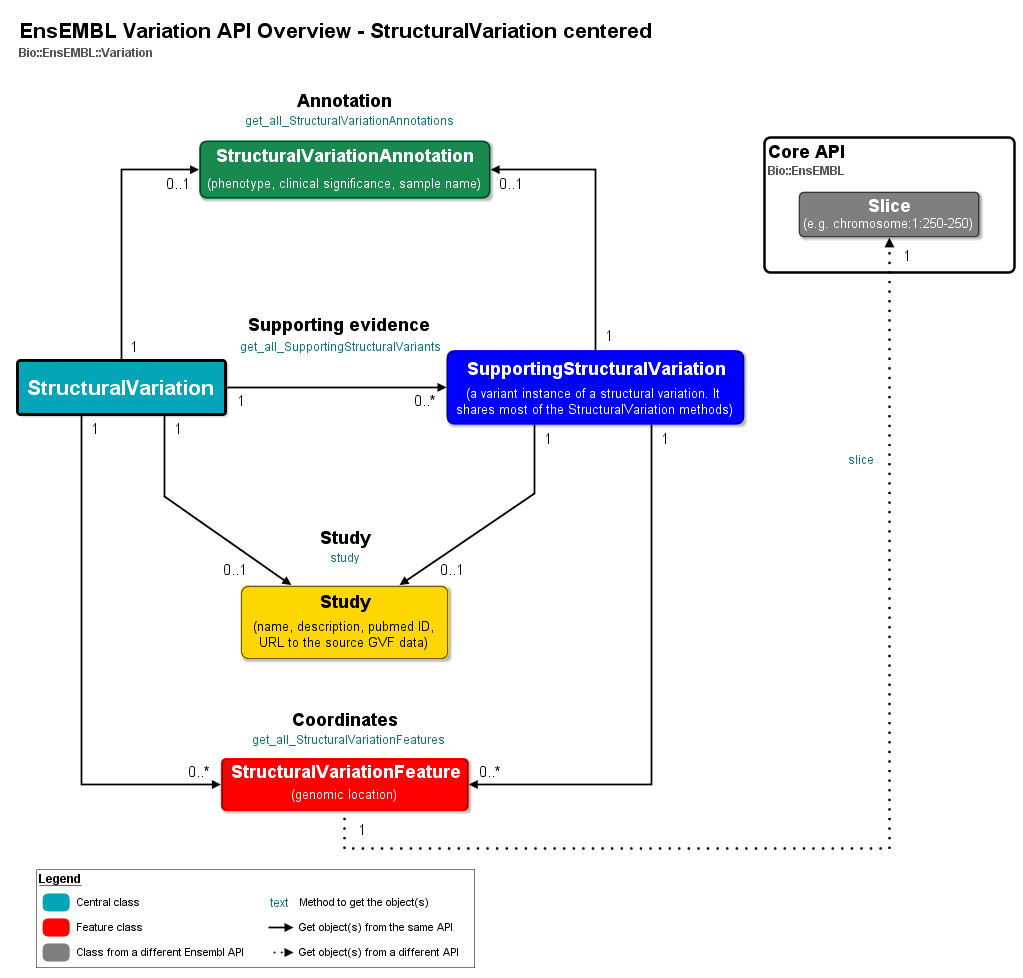
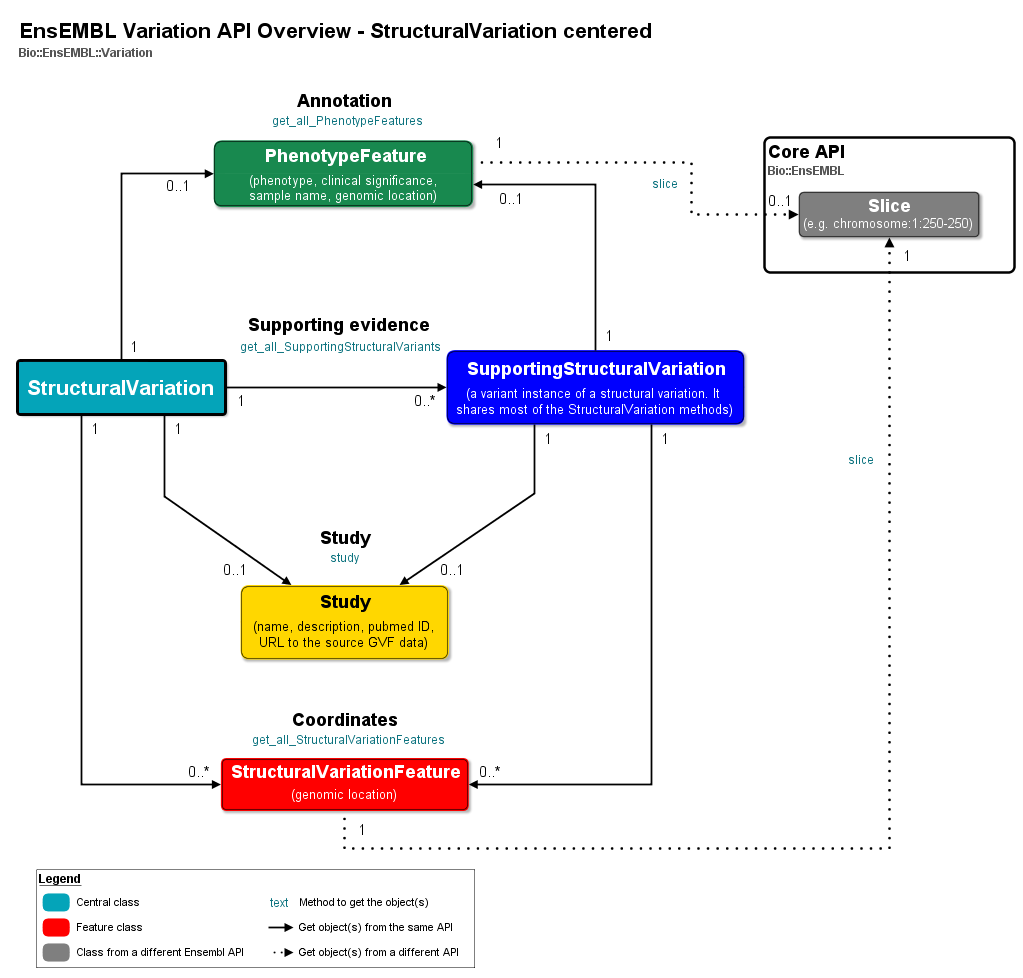
Update the Structural Variation API diagram for e!71

Changed region(s): [[0.1212, 0.1227, 0.5758, 0.2147]]

diff --git a/htdocs/info/docs/api/variation/structuralvariation_API_diagram.html b/htdocs/info/docs/api/variation/structuralvariation_API_diagram.html
@@ -10,7 +10,7 @@
   document.onmousemove = updateTooltip;
 </script>
 
-<div class="tooltip" id="n20">Click to view the StructuralVariationAnnotation class documentation</div>
+<div class="tooltip" id="n20">Click to view the PhenotypeFeature class documentation</div>
 <div class="tooltip" id="n21">Click to view the SupportingStructuralVariation class documentation</div>
 <div class="tooltip" id="n22">Click to view the StructuralVariation class documentation</div>
 <div class="tooltip" id="n23">Click to view the Doxygen documentation for the Variation API</div>
@@ -27,8 +27,8 @@
   <area shape="rect" coords="9,40,171,63" href="http://www.ensembl.org/info/docs/Doxygen/variation-api/index.html" alt="" target="_blank" onmouseout="hideTooltip()" onmouseover="showTooltip('n23')"/>
   <area shape="rect" coords="17,360,225,414" href="http://www.ensembl.org/info/docs/Doxygen/variation-api/classBio_1_1EnsEMBL_1_1Variation_1_1StructuralVariation.html" alt="" target="_blank" onmouseout="hideTooltip()" onmouseover="showTooltip('n22')"/>
   <area shape="rect" coords="446,350,744,424" href="http://www.ensembl.org/info/docs/Doxygen/variation-api/classBio_1_1EnsEMBL_1_1Variation_1_1SupportingStructuralVariation.html" alt="" target="_blank" onmouseout="hideTooltip()" onmouseover="showTooltip('n21')"/>
-  <area shape="rect" coords="199,140,490,198" href="http://www.ensembl.org/info/docs/Doxygen/variation-api/classBio_1_1EnsEMBL_1_1Variation_1_1StructuralVariationAnnotation.html" alt="" target="_blank" onmouseout="hideTooltip()" onmouseover="showTooltip('n20')"/>
-</map>
+  <area shape="rect" coords="213,140,473,207" href="http://www.ensembl.org/info/docs/Doxygen/variation-api/classBio_1_1EnsEMBL_1_1Variation_1_1PhenotypeFeature.html" alt="" target="_blank" onmouseout="hideTooltip()" onmouseover="showTooltip('n20')"/>
+ </map>
 
     <table class="yimagetable" cellspacing="0" cellpadding="0" border="0">
       <tr>
